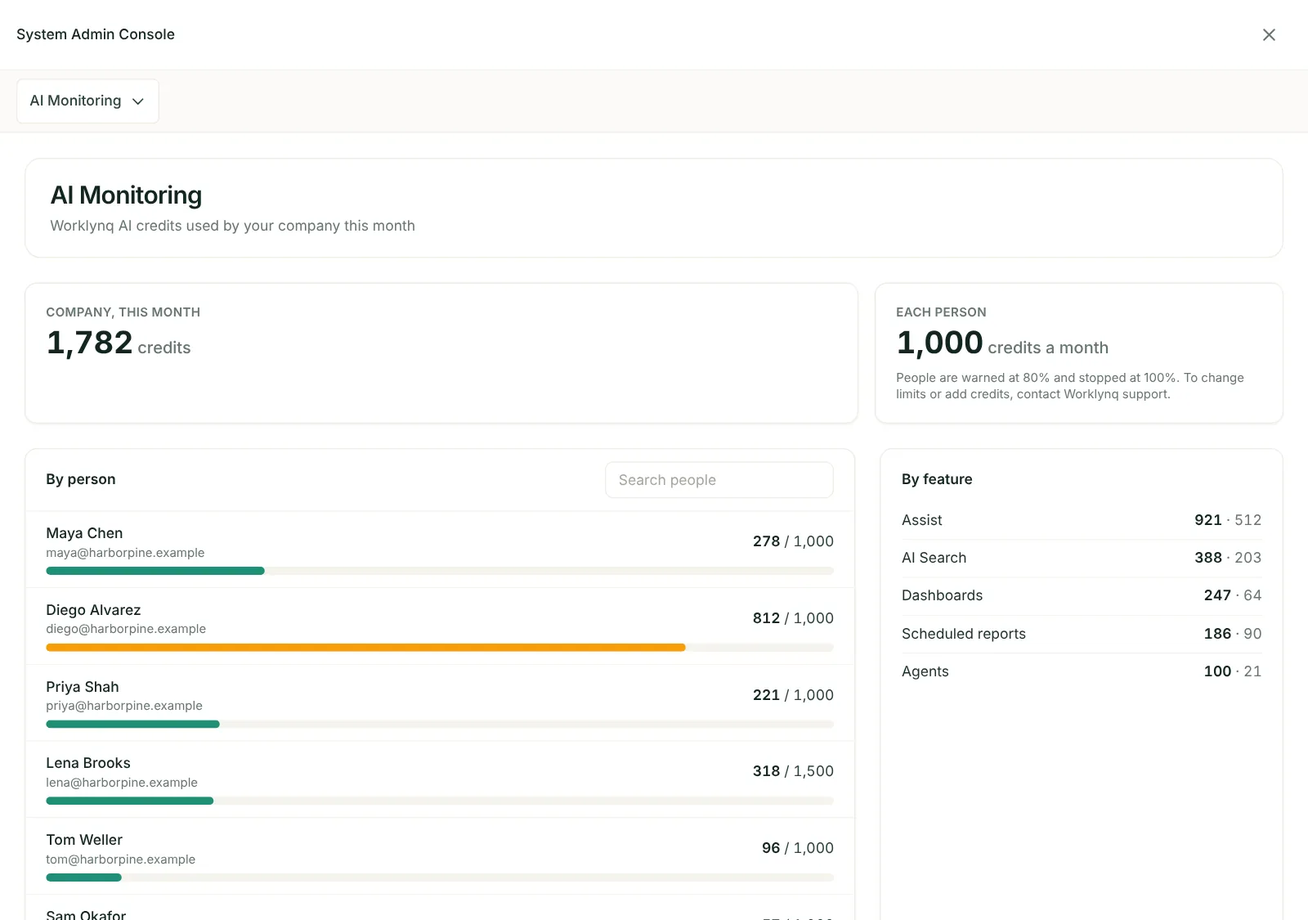
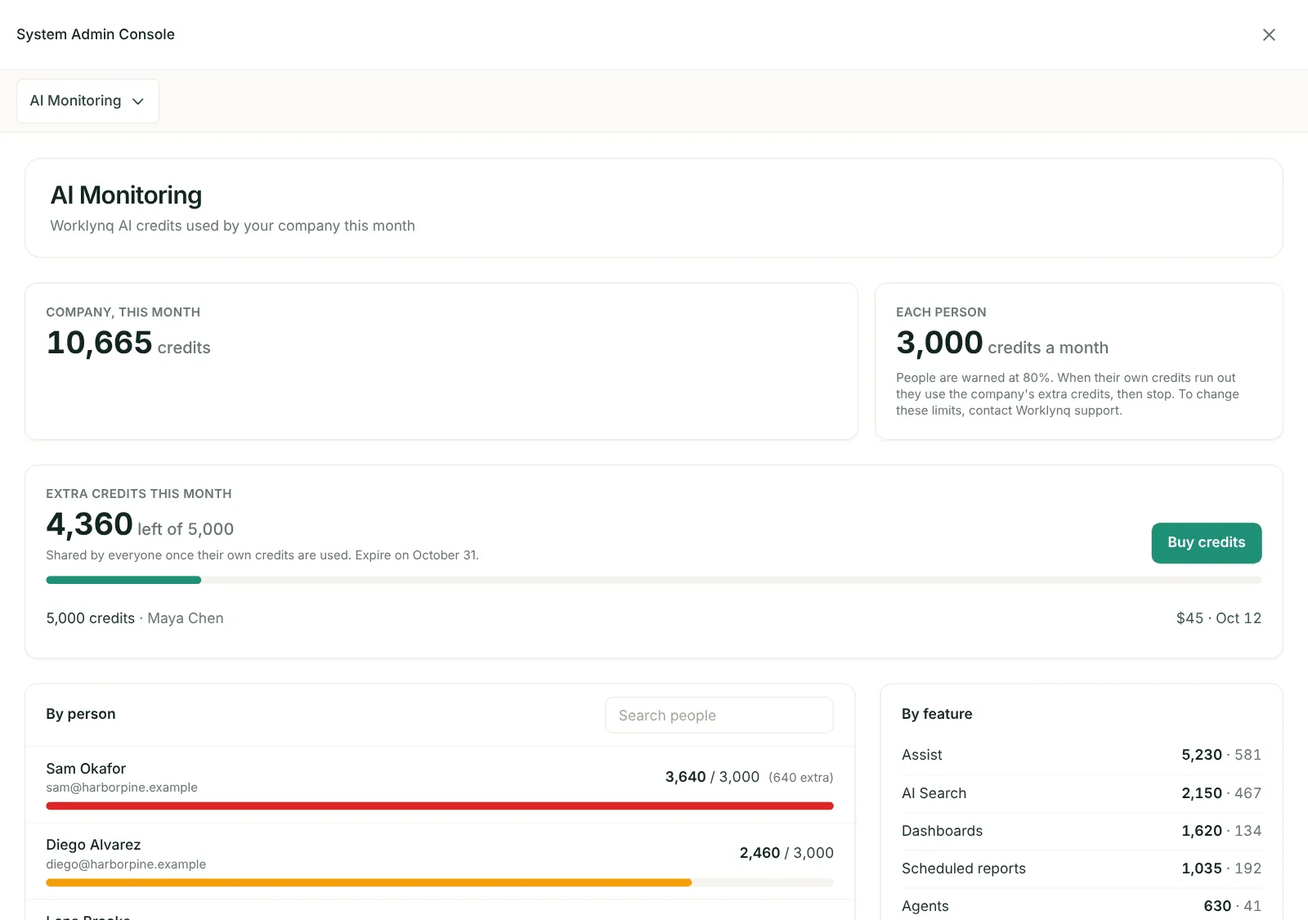
AI credits by plan, extra credit packs (#112, #116); Title column resize (#115)
Basic 1,000 / Advance 3,000 / Premium 7,000 credits per person a month on
the AI credits page, Plans & billing cards, FAQ and What's new; extra
credit packs and the shared pool; re-taken AI Usage and AI Monitoring
screens and a new Buy credits screen.

Claude-Session: https://claude.ai/code/session_01LrkZDcZU3B667ZymrL3Co3

diff --git a/docs/ai-credits/index.html b/docs/ai-credits/index.html
@@ -5,7 +5,7 @@
 <meta name="viewport" content="width=device-width, initial-scale=1.0">
 <meta name="color-scheme" content="light only">
 <title>Worklynq AI credits — Worklynq Docs</title>
-<meta name="description" content="How Worklynq AI credits work: what uses them, monthly allowances, warnings at 80%, and where to see your own and your company’s usage.">
+<meta name="description" content="Worklynq AI credits: 1,000, 3,000 or 7,000 credits per person a month by plan, extra credit packs, warnings, and where to see your own and your company’s usage.">
 <link rel="icon" href="/favicon.ico" sizes="any">
 <link rel="icon" type="image/svg+xml" href="/favicon.svg">
 <link rel="icon" type="image/png" sizes="32x32" href="/favicon-32x32.png">
@@ -32,12 +32,29 @@
 
 <main id="top">
   <div class="wrap docs-layout">
-    <aside class="docs-side"><details class="side-details" id="docs-nav"><summary>Docs menu</summary><nav aria-label="Documentation"><p class="side-title">Get started</p><ul class="side-pages"><li><a href="/docs/">Overview</a></li><li><a href="/docs/getting-started/">Getting started</a></li><li><a href="/docs/signing-in/">Signing in</a></li><li><a href="/docs/plans-and-billing/">Plans &amp; billing</a></li><li><a href="/docs/ai-credits/" aria-current="page">AI credits</a><ul class="side-sections"><li><a href="#what-uses">What uses credits</a></li><li><a href="#limits">Monthly allowance</a></li><li><a href="#warnings">Before you run out</a></li><li><a href="#your-usage">Your usage</a></li><li><a href="#company-usage">Company usage</a></li><li><a href="#off">Turning AI off</a></li></ul></li><li><a href="/docs/whats-new/">What’s new</a></li></ul><p class="side-title">Features</p><ul class="side-pages"><li><a href="/docs/home/">Home</a></li><li><a href="/docs/tickets/">Tickets</a></li><li><a href="/docs/reports/">Scheduled reports</a></li><li><a href="/docs/approvals/">Approvals</a></li><li><a href="/docs/order-tracking/">Order Tracking</a></li><li><a href="/docs/connect-your-ai/">Connect your AI</a></li><li><a href="/docs/assist/">Assist</a></li><li><a href="/docs/shifts/">Shifts</a></li><li><a href="/docs/tv-screens/">TV screens</a></li></ul><p class="side-title">Reference</p><ul class="side-pages"><li><a href="/docs/modules/">Modules</a></li><li><a href="/docs/integrations/">Integrations</a></li><li class="sub"><a href="/docs/integrations/github/">GitHub</a></li><li class="sub"><a href="/docs/integrations/claude/">Claude</a></li><li class="sub"><a href="/docs/integrations/cursor/">Cursor</a></li><li class="sub"><a href="/docs/integrations/square/">Square</a></li><li class="sub"><a href="/docs/integrations/quickbooks/">QuickBooks</a></li><li class="sub"><a href="/docs/integrations/custom-apps/">Custom apps</a></li></ul><p class="side-title">Industry guides</p><ul class="side-pages"><li><a href="/docs/guides/restaurants/">Restaurants &amp; cafés</a></li><li><a href="/docs/guides/construction/">Construction &amp; trades</a></li><li><a href="/docs/guides/software/">Software teams</a></li></ul><p class="side-title">Help</p><ul class="side-pages"><li><a href="/docs/faq/">FAQ</a></li><li><a href="/docs/security/">Security &amp; data</a></li></ul></nav></details></aside><script>(function(){var d=document.getElementById("docs-nav");if(d&&window.matchMedia("(min-width: 981px)").matches)d.open=true;})();</script>
+    <aside class="docs-side"><details class="side-details" id="docs-nav"><summary>Docs menu</summary><nav aria-label="Documentation"><p class="side-title">Get started</p><ul class="side-pages"><li><a href="/docs/">Overview</a></li><li><a href="/docs/getting-started/">Getting started</a></li><li><a href="/docs/signing-in/">Signing in</a></li><li><a href="/docs/plans-and-billing/">Plans &amp; billing</a></li><li><a href="/docs/ai-credits/" aria-current="page">AI credits</a><ul class="side-sections"><li><a href="#allowance">Credits with your plan</a></li><li><a href="#what-uses">What uses credits</a></li><li><a href="#extra">Extra credits</a></li><li><a href="#warnings">Before you run out</a></li><li><a href="#your-usage">Your usage</a></li><li><a href="#company-usage">Company usage</a></li><li><a href="#off">Turning AI off</a></li></ul></li><li><a href="/docs/whats-new/">What’s new</a></li></ul><p class="side-title">Features</p><ul class="side-pages"><li><a href="/docs/home/">Home</a></li><li><a href="/docs/tickets/">Tickets</a></li><li><a href="/docs/reports/">Scheduled reports</a></li><li><a href="/docs/approvals/">Approvals</a></li><li><a href="/docs/order-tracking/">Order Tracking</a></li><li><a href="/docs/connect-your-ai/">Connect your AI</a></li><li><a href="/docs/assist/">Assist</a></li><li><a href="/docs/shifts/">Shifts</a></li><li><a href="/docs/tv-screens/">TV screens</a></li></ul><p class="side-title">Reference</p><ul class="side-pages"><li><a href="/docs/modules/">Modules</a></li><li><a href="/docs/integrations/">Integrations</a></li><li class="sub"><a href="/docs/integrations/github/">GitHub</a></li><li class="sub"><a href="/docs/integrations/claude/">Claude</a></li><li class="sub"><a href="/docs/integrations/cursor/">Cursor</a></li><li class="sub"><a href="/docs/integrations/square/">Square</a></li><li class="sub"><a href="/docs/integrations/quickbooks/">QuickBooks</a></li><li class="sub"><a href="/docs/integrations/custom-apps/">Custom apps</a></li></ul><p class="side-title">Industry guides</p><ul class="side-pages"><li><a href="/docs/guides/restaurants/">Restaurants &amp; cafés</a></li><li><a href="/docs/guides/construction/">Construction &amp; trades</a></li><li><a href="/docs/guides/software/">Software teams</a></li></ul><p class="side-title">Help</p><ul class="side-pages"><li><a href="/docs/faq/">FAQ</a></li><li><a href="/docs/security/">Security &amp; data</a></li></ul></nav></details></aside><script>(function(){var d=document.getElementById("docs-nav");if(d&&window.matchMedia("(min-width: 981px)").matches)d.open=true;})();</script>
     <article class="doc">
       <p class="eyebrow">Get started</p>
       <h1>Worklynq AI credits</h1>
-      <p class="intro">Worklynq’s built-in AI — Assist, AI Search, AI agents, and AI in dashboards — runs on Worklynq AI credits. Every person gets <strong>1,000 credits a month</strong>, you can see exactly where they go, and Worklynq tells you before they run out.</p>
-      <figure class="shot"><img src="/assets/screens/ai-usage.webp" alt="AI Usage: this month's credits against the limit, by feature and by day" loading="lazy" width="1600" height="1125"><figcaption>Profile → AI Usage: your credits this month</figcaption></figure>
+      <p class="intro">Worklynq’s built-in AI — Assist, AI Search, AI agents, and AI in dashboards — runs on Worklynq AI credits. Everyone on your team gets a monthly allowance that comes with your plan, your company can buy extra credits when it needs more, and you can see exactly where they go.</p>
+      <figure class="shot"><img src="/assets/screens/ai-usage.webp" alt="AI Usage: 1,390 of 3,000 credits used this month, credits by feature and by day, and recent AI activity" loading="lazy" width="1600" height="1125"><figcaption>Your profile menu → AI Usage: your credits this month</figcaption></figure>
+      <section class="sec" id="allowance"><h2>Credits included with your plan</h2>
+        <p>Every person on your team gets their own monthly allowance, set by your <a href="/docs/plans-and-billing/">plan</a>:</p>
+        <div class="table-wrap"><table>
+          <thead><tr><th>Plan</th><th>Credits per person, per month</th><th>About this many Assist questions</th></tr></thead>
+          <tbody>
+            <tr><td>Basic</td><td>1,000</td><td>110</td></tr>
+            <tr><td>Advance</td><td>3,000</td><td>330</td></tr>
+            <tr><td>Premium</td><td>7,000</td><td>775</td></tr>
+          </tbody>
+        </table></div>
+        <ul>
+          <li>Each person’s allowance is their own — one busy person can’t use up someone else’s.</li>
+          <li>A typical Assist question uses about 9 credits. Bigger requests, like building a dashboard, use more; requests that fail without an answer use none.</li>
+          <li>Allowances start again at the beginning of each calendar month. Unused credits don’t carry over.</li>
+          <li>Worklynq can set a different allowance for one person, or a limit for the whole company, if you ask at <a href="mailto:info@cohesync.com">info@cohesync.com</a>.</li>
+        </ul>
+      </section>
       <section class="sec" id="what-uses"><h2>What uses credits</h2>
         <div class="table-wrap"><table>
           <thead><tr><th>Feature</th><th>Uses credits when…</th></tr></thead>
@@ -48,31 +65,39 @@
             <tr><td><a href="/docs/modules/#dashboards">Dashboards &amp; Reports</a></td><td>AI builds or explains a dashboard, or writes a scheduled report’s summary</td></tr>
           </tbody>
         </table></div>
-        <p>Bigger requests use more credits than small ones. Requests that fail without an answer use none.</p>
         <p><strong>No credits for your own AI.</strong> When your company uses its own Claude or OpenAI API key for a feature, that use costs no Worklynq credits — your provider bills you directly. The same goes for <a href="/docs/integrations/claude/">Claude</a> and <a href="/docs/integrations/cursor/">Cursor</a> coding agents, and for your own Claude or ChatGPT <a href="/docs/connect-your-ai/">connected to Worklynq</a>.</p>
       </section>
-      <section class="sec" id="limits"><h2>Monthly allowance</h2>
-        <ul>
-          <li><strong>1,000 credits per person per month</strong>, included for everyone on your team. Each person’s allowance is their own — one busy person can’t use up someone else’s.</li>
-          <li>As a rough guide, a typical Assist question uses about 5 credits, so 1,000 credits is around 200 questions a month.</li>
-          <li>Worklynq can set a different allowance for one person, or a limit for the whole company, if you ask.</li>
-          <li>Allowances start again at the beginning of each calendar month. Unused credits don’t carry over.</li>
-          <li>Need more? Your System Admin can ask Worklynq at <a href="mailto:info@cohesync.com">info@cohesync.com</a> to raise a person’s or the company’s limit, or add extra credits.</li>
-        </ul>
+      <section class="sec" id="extra"><h2>Extra credits</h2>
+        <p>When someone uses up their own allowance, they carry on with your company’s <strong>extra credits</strong> — a shared pool for the month that everyone draws from once their own credits are gone.</p>
+        <div class="table-wrap"><table>
+          <thead><tr><th>Pack</th><th>Price</th></tr></thead>
+          <tbody>
+            <tr><td>1,000 credits</td><td>$10</td></tr>
+            <tr><td>5,000 credits</td><td>$45 (save 10%)</td></tr>
+            <tr><td>20,000 credits</td><td>$160 (save 20%)</td></tr>
+          </tbody>
+        </table></div>
+        <ol class="howto">
+          <li>Your System Admin opens <strong>System Admin → AI Monitoring</strong> and clicks <strong>Buy credits</strong>.</li>
+          <li>Pick a pack. Payment is a one-time card payment on Stripe’s secure checkout page.</li>
+          <li>Back in Worklynq, the credits appear in the pool within a minute.</li>
+        </ol>
+        <figure class="shot shot--narrow"><img src="/assets/screens/ai-buy-credits.webp" alt="Buy Worklynq AI credits: 1,000 credits for $10, 5,000 for $45, and 20,000 for $160" loading="lazy" width="640" height="528"><figcaption>Buy credits, in AI Monitoring</figcaption></figure>
+        <p class="tip">Extra credits are for the month you buy them in and expire at the end of that month, like allowances. Prices are in US dollars and exclude tax.</p>
       </section>
       <section class="sec" id="warnings"><h2>Before you run out</h2>
         <ul>
-          <li><strong>At 80%</strong>, Assist shows how much you’ve used under the message box — for example, <em>You’ve used 82% of your Worklynq AI credits this month.</em></li>
-          <li><strong>At 100%</strong>, Assist, AI Search, agents, and AI in dashboards stop and say <em>You’ve used this month’s Worklynq AI credits. Ask your administrator for more credits.</em> If it’s the company limit that’s reached, the message says so.</li>
-          <li>Everything else in Worklynq keeps working — only the AI features pause until the next month or until more credits are added.</li>
+          <li><strong>At 80%</strong> of your own allowance, Assist shows how much you’ve used under the message box — for example, <em>You’ve used 82% of your Worklynq AI credits this month.</em></li>
+          <li><strong>At 100%</strong>, if your company has extra credits, you carry on with those and Assist says so — <em>You’ve used your monthly Worklynq AI credits. You’re now using your company’s extra credits (4,360 left).</em></li>
+          <li><strong>When everything is used</strong>, Assist, AI Search, agents, and AI in dashboards stop and say <em>You’ve used this month’s Worklynq AI credits. Ask your administrator to buy more credits.</em> (or, if it’s a company limit, that your company has reached its credits) Everything else in Worklynq keeps working — only the AI features pause until more credits are added or the month ends.</li>
         </ul>
       </section>
       <section class="sec" id="your-usage"><h2>See your own usage</h2>
-        <p>Open your profile menu and choose <strong>AI Usage</strong>. You’ll see this month’s credits against your allowance, credits by feature, credits per day, and your recent AI activity.</p>
+        <p>Open your profile menu and choose <strong>AI Usage</strong>. You’ll see this month’s credits against your allowance, credits by feature, credits per day, your recent AI activity, and how many extra credits your company has left.</p>
       </section>
       <section class="sec" id="company-usage"><h2>See your company’s usage</h2>
-        <p>System Admins open <strong>System Admin → AI Monitoring</strong> to see the company’s credits this month against its limit, each person’s credits and allowance, and credits by feature. It’s read-only — to change limits, contact Worklynq.</p>
-        <figure class="shot"><img src="/assets/screens/ai-monitoring.webp" alt="AI Monitoring: company credits by person and by feature" loading="lazy" width="1600" height="1125"><figcaption>System Admin → AI Monitoring</figcaption></figure>
+        <p>System Admins open <strong>System Admin → AI Monitoring</strong> to see the company’s credits this month, each person’s allowance, the extra credits left and when they expire, who bought which pack, how much each person drew from the extra credits, and credits by feature. Allowances can’t be changed there — contact Worklynq for that.</p>
+        <figure class="shot"><img src="/assets/screens/ai-monitoring.webp" alt="AI Monitoring: company credits this month, 3,000 credits per person, 4,360 of 5,000 extra credits left with Buy credits, and each person’s usage" loading="lazy" width="1600" height="1125"><figcaption>System Admin → AI Monitoring</figcaption></figure>
       </section>
       <section class="sec" id="off"><h2>Turning AI off</h2>
         <p>AI can be turned off for a whole company or for one person. Ask Worklynq at <a href="mailto:info@cohesync.com">info@cohesync.com</a>. When it’s off, AI features say so and the rest of Worklynq works as usual.</p>

diff --git a/docs/whats-new/index.html b/docs/whats-new/index.html
@@ -38,7 +38,8 @@
       <h1>What’s new</h1>
       <p class="intro">New features and improvements in Worklynq, newest first.</p>
       <section class="release" id="2026-10-27"><h2>October 27, 2026</h2>
-        <article class="change" id="ai-credits"><span class="change-tag">New</span><h3>Worklynq AI credits</h3><p>Everything about AI use is now in Worklynq AI credits. Every person gets 1,000 credits a month, and Assist, AI Search, agents, and AI in dashboards all use it. See yours in <strong>AI Usage</strong> in your profile menu — this month’s credits, by feature and by day. System Admins see the whole company in <strong>System Admin → AI Monitoring</strong>. Assist warns you at 80%, and AI features pause at 100% until the next month or until more credits are added. Using your own Claude or OpenAI key costs no credits.</p><p class="change-link"><a href="/docs/ai-credits/">About AI credits →</a></p></article>
+        <article class="change" id="ai-credits"><span class="change-tag">New</span><h3>Worklynq AI credits</h3><p>Everything about AI use is now in Worklynq AI credits. Every person gets a monthly allowance with your plan — 1,000 credits on Basic, 3,000 on Advance, 7,000 on Premium — and Assist, AI Search, agents, and AI in dashboards all use it. See yours in <strong>AI Usage</strong> in your profile menu — this month’s credits, by feature and by day. System Admins see the whole company in <strong>System Admin → AI Monitoring</strong>. Assist warns you at 80%. Using your own Claude or OpenAI key costs no credits.</p><p class="change-link"><a href="/docs/ai-credits/">About AI credits →</a></p></article>
+        <article class="change" id="credit-packs"><span class="change-tag">New</span><h3>Buy extra AI credits</h3><p>System Admins can now buy extra credits in <strong>System Admin → AI Monitoring → Buy credits</strong>: 1,000 for $10, 5,000 for $45, or 20,000 for $160, paid on Stripe. Extra credits are shared by everyone once their own allowance is used, and last until the end of the month. Assist tells you when you’ve moved on to them, and AI pauses only when they’re gone too.</p><p class="change-link"><a href="/docs/ai-credits/#extra">About extra credits →</a></p></article>
         <article class="change" id="tickets-list"><span class="change-tag">Improved</span><h3>A tickets list that fills the screen, with Ask AI</h3><p>The tickets list now uses the whole screen, with readable columns and the Title taking the rest. A compact <strong>Ask AI</strong> box in the toolbar replaces the old query bar: type “overdue repairs at Downtown”, press Enter, and save it as a filter if you like. Filters now have two simple tabs, <em>Saved</em> and <em>Fields</em>.</p><p class="change-link"><a href="/docs/tickets/#ask-ai">Search with Ask AI →</a></p></article>
         <article class="change" id="bulk-edit"><span class="change-tag">New</span><h3>Edit similar tickets together</h3><p>Super admins can turn on <strong>Bulk edit</strong>, pick tickets from the same work area and of the same type, and change their status, priority, assignee, due date, sprint, or release in one go. Every field starts at <em>Keep as is</em>.</p><p class="change-link"><a href="/docs/tickets/#bulk-edit">How bulk edit works →</a></p></article>
         <article class="change" id="branching-workflows"><span class="change-tag">New</span><h3>Custom (branching) workflows</h3><p>Next to Linear and Free flow, a ticket type can now use a <strong>Custom</strong> workflow: for each stage, choose which stages a ticket can move to next, so work can split into branches and loop back — <em>Tasting → Changes requested → Tasting</em>. A diagram shows the result, Worklynq checks every stage can be reached, and the board and status menu only allow the moves you chose.</p><p class="change-link"><a href="/docs/tickets/#custom-workflow">Build a branching workflow →</a></p></article>

diff --git a/docs/plans-and-billing/index.html b/docs/plans-and-billing/index.html
@@ -38,9 +38,9 @@
       <h1>Plans &amp; billing</h1>
       <p class="intro">Worklynq is priced per person, monthly or yearly. You choose a plan and how many people when you sign up, and pay on Stripe’s secure checkout page.</p>
       <div class="plans">
-        <div class="plan"><h3>Basic</h3><span class="price">$19</span> <span class="per">per person / month</span><div class="per">or $199 per person / year</div><ul><li>Projects, operations and tickets</li><li>Up to 2 integrations</li><li>5 GB storage</li><li>Support within 24 hours</li></ul></div>
-        <div class="plan"><h3>Advance</h3><span class="price">$39</span> <span class="per">per person / month</span><div class="per">or $399 per person / year</div><ul><li>Everything in Basic</li><li>Unlimited integrations</li><li>Automations and workflows</li><li>20 GB storage, support within 4 hours</li></ul></div>
-        <div class="plan"><h3>Premium</h3><span class="price">$69</span> <span class="per">per person / month</span><div class="per">or $699 per person / year</div><ul><li>Everything in Advance</li><li>Unlimited storage and audit exports</li><li>Premium support</li></ul></div>
+        <div class="plan"><h3>Basic</h3><span class="price">$19</span> <span class="per">per person / month</span><div class="per">or $199 per person / year</div><ul><li>Projects, operations and tickets</li><li>Up to 2 integrations</li><li>1,000 AI credits per person a month</li><li>5 GB storage</li><li>Support within 24 hours</li></ul></div>
+        <div class="plan"><h3>Advance</h3><span class="price">$39</span> <span class="per">per person / month</span><div class="per">or $399 per person / year</div><ul><li>Everything in Basic</li><li>Unlimited integrations</li><li>3,000 AI credits per person a month</li><li>Automations and workflows</li><li>20 GB storage, support within 4 hours</li></ul></div>
+        <div class="plan"><h3>Premium</h3><span class="price">$69</span> <span class="per">per person / month</span><div class="per">or $699 per person / year</div><ul><li>Everything in Advance</li><li>7,000 AI credits per person a month</li><li>Unlimited storage and audit exports</li><li>Premium support</li></ul></div>
       </div>
       <p>Prices are in US dollars and exclude tax. Every module is included in every plan — you don’t pay extra to turn one on.</p>
       <figure class="shot"><img src="/assets/screens/signup-5-plan.webp" alt="Choosing a plan and the number of people during sign-up" loading="lazy" width="1600" height="1000"></figure>
@@ -59,7 +59,8 @@
       </section>
       <section class="step" id="ai-costs">
         <h2>AI</h2>
-        <p>Worklynq’s built-in AI — Assist, AI Search, agents, and AI in dashboards — runs on <a href="/docs/ai-credits/">Worklynq AI credits</a>. Every person gets 1,000 credits a month. If you need more, your System Admin can ask us at <a href="mailto:info@cohesync.com">info@cohesync.com</a>.</p>
+        <p>Worklynq’s built-in AI — Assist, AI Search, agents, and AI in dashboards — runs on <a href="/docs/ai-credits/">Worklynq AI credits</a>. Every person gets a monthly allowance with your plan: 1,000 credits on Basic, 3,000 on Advance, and 7,000 on Premium.</p>
+        <p>Need more? Your System Admin can buy extra credits for the month in <strong>System Admin → AI Monitoring</strong>: 1,000 for $10, 5,000 for $45, or 20,000 for $160, shared by everyone once their own credits are used. See <a href="/docs/ai-credits/#extra">Extra credits</a>.</p>
         <p>Claude and Cursor coding agents, and any feature you point at your own Claude or OpenAI key, run on your own account with those providers. They bill you for that usage directly, and it uses no Worklynq credits.</p>
       </section>
       <p class="doc-foot">Last updated: October 26, 2026. Questions? <a href="mailto:info@cohesync.com">info@cohesync.com</a></p>

diff --git a/docs/faq/index.html b/docs/faq/index.html
@@ -58,7 +58,7 @@
         <details class="faq" id="tv"><summary>Can I put Worklynq on a TV in my store?</summary><div class="faq-a"><p>Yes. Open Order Tracking or Operations, click <strong>Show on TV</strong>, and connect the TV with a code — most TV browsers, a Fire TV stick, or a tablet work. The TV can show open orders, today’s tasks, and who’s on duty. See <a href="/docs/tv-screens/">TV screens</a>.</p></div></details>
         <details class="faq" id="own-software"><summary>Can Worklynq show data from our own software?</summary><div class="faq-a"><p>Yes. Your developers add a small, read-only data feed to your app using our <a href="/docs/integrations/custom-apps/feed-spec/">one-page spec</a>, and your System Admin connects it as a <a href="/docs/integrations/custom-apps/">custom app</a>. Its data then works in dashboards and reports like Square or QuickBooks.</p></div></details>
         <details class="faq" id="own-ai-account"><summary>Do I need my own Claude or Cursor account?</summary><div class="faq-a"><p>Only if you want AI coding agents to work on tickets. You connect your own API key, and that provider bills your account for what the agents use. You can set limits on how long and, for Claude, how much each session may run.</p></div></details>
-        <details class="faq" id="ai-credits"><summary>What are Worklynq AI credits?</summary><div class="faq-a"><p>Worklynq’s built-in AI — Assist, AI Search, agents, and AI in dashboards — runs on AI credits. Every person gets 1,000 credits a month; Assist warns at 80%, and AI features pause at 100% until the next month or until more are added. Using your own Claude or OpenAI key costs no credits. See your usage under <strong>AI Usage</strong> in your profile menu, and read <a href="/docs/ai-credits/">Worklynq AI credits</a>.</p></div></details>
+        <details class="faq" id="ai-credits"><summary>What are Worklynq AI credits?</summary><div class="faq-a"><p>Worklynq’s built-in AI — Assist, AI Search, agents, and AI in dashboards — runs on AI credits. Every person gets a monthly allowance with your plan — 1,000 credits on Basic, 3,000 on Advance, 7,000 on Premium. Assist warns at 80%; after that, people use your company’s extra credits, which your System Admin can buy in packs, and AI features pause only when those run out too. Using your own Claude or OpenAI key costs no credits. See your usage under <strong>AI Usage</strong> in your profile menu, and read <a href="/docs/ai-credits/">Worklynq AI credits</a>.</p></div></details>
         <details class="faq" id="which-ai"><summary>Which AI does Worklynq use?</summary><div class="faq-a"><p>Worklynq’s built-in AI uses models hosted on Amazon Bedrock. Your company can also set up its own Claude or OpenAI key and choose those models for things like building and explaining dashboards and summarizing reports. AI coding agents use Claude (Anthropic) or Cursor (Anysphere) through your own account with them.</p></div></details>
         <details class="faq" id="ai-training"><summary>Is my data used to train AI models?</summary><div class="faq-a"><p>No. We don’t use your content to train AI models, and we don’t use it for advertising. See <a href="/docs/security/#ai">Security &amp; data</a>.</p></div></details>
         <details class="faq" id="ai-mistakes"><summary>Can I trust what the AI says or does?</summary><div class="faq-a"><p>AI can be wrong, so Worklynq is built for people to stay in charge: answers link to their sources, AI only sees what the person asking is allowed to see (and never other people’s personal pages), and AI agents propose changes as pull requests your team reviews before anything is merged.</p></div></details>

diff --git a/docs/tickets/index.html b/docs/tickets/index.html
@@ -40,7 +40,8 @@
       <figure class="shot"><img src="/assets/screens/tickets-ask-ai.webp" alt="The tickets list filtered by an Ask AI search for the Downtown café’s tickets due this week, with Save and clear in the search box" loading="lazy" width="1600" height="1000"><figcaption>Ask AI: “Downtown café, due this week” — save it as a filter or clear it</figcaption></figure>
       <section class="sec" id="list"><h2>The tickets list</h2>
         <ul>
-          <li>The list fills your screen. Columns are sized to be readable, the <strong>Title</strong> takes the rest of the width, and any column you resize keeps its width.</li>
+          <li>The list fills your screen. Columns are sized to be readable, and the <strong>Title</strong> takes the rest of the width.</li>
+          <li>Drag a column’s edge to resize it — including making the Title narrower, so long titles are cut short. Your widths are remembered. Double-click a column’s edge to put it back to automatic width.</li>
           <li>Sort by any column, and click a ticket to open it.</li>
           <li><strong>Filter</strong> has two tabs: <strong>Saved</strong> for your saved filters, and <strong>Fields</strong> to filter by status, type, assignee, priority, and more.</li>
         </ul>
